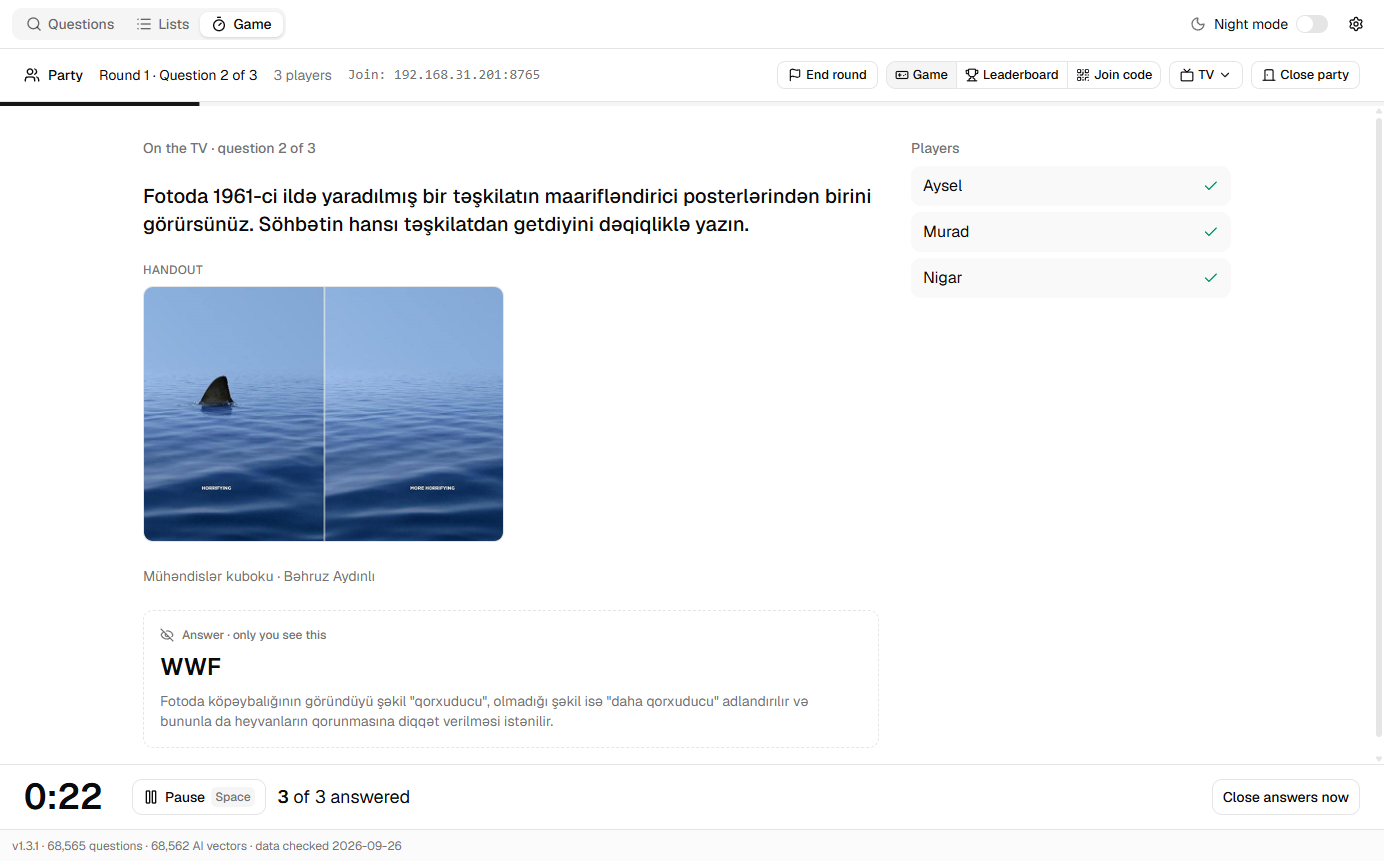
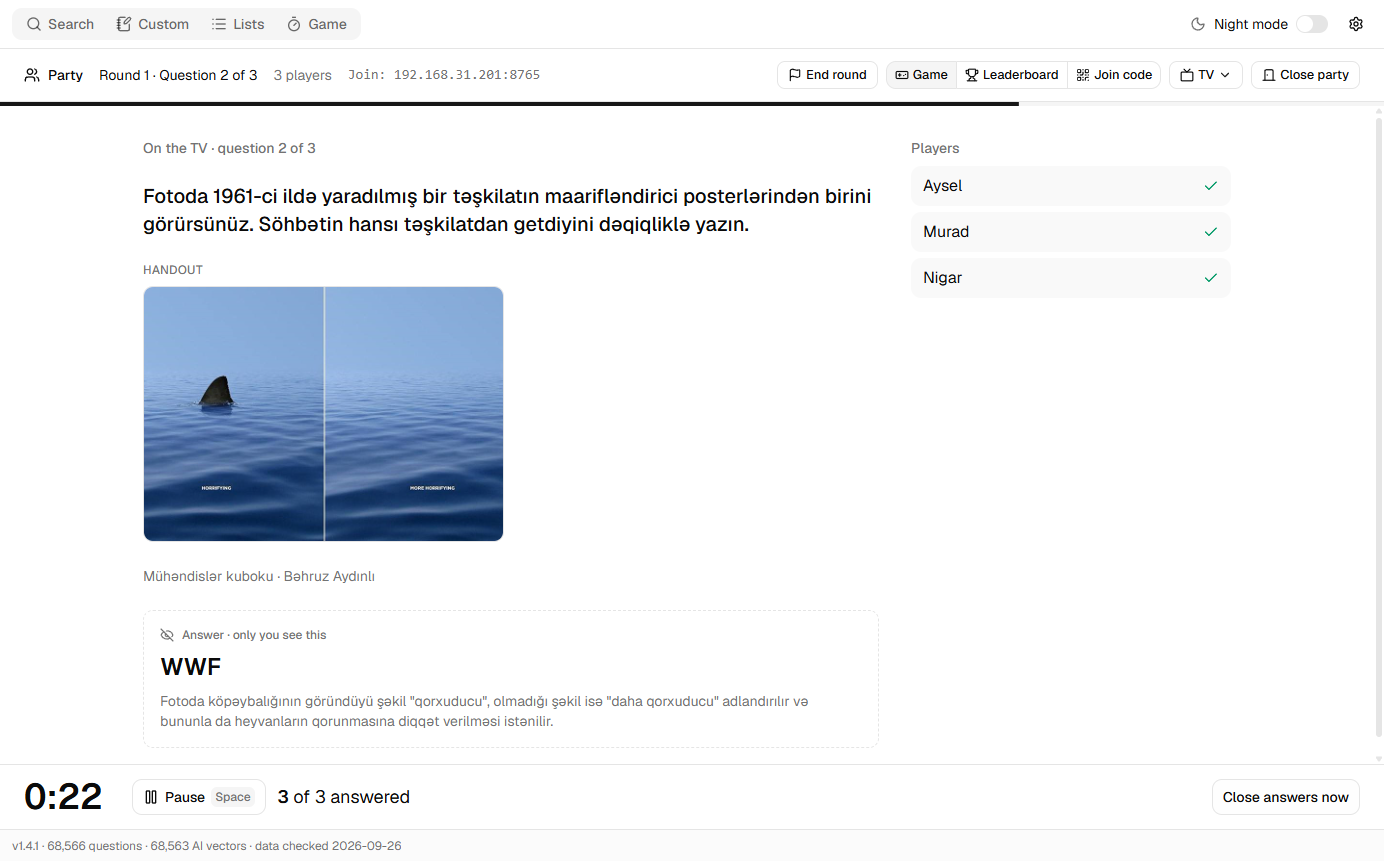
Daylight screenshots and a Custom tab screenshot; Custom tab ignores the search text

Changed region(s): [[0.0621, 0.9663, 0.2486, 0.9965], [0.1553, 0.0, 0.2486, 0.0302], [0.0311, 0.0, 0.1243, 0.0302]]

diff --git a/app/ui/App.jsx b/app/ui/App.jsx
@@ -557,9 +557,10 @@ export default function App() {
     );
   }
 
+  const isSearching = !isMine && !!query.trim();
   const summary = results && [
-    results.matches != null && (query.trim() ? `${fmt(results.matches)} keyword ${results.matches === 1 ? 'match' : 'matches'}` : plural(results.matches, 'question')),
-    query.trim() && searchMode !== 'keyword' && (results.ai ? 'AI ranked' : 'AI unavailable, keyword only'),
+    results.matches != null && (isSearching ? `${fmt(results.matches)} keyword ${results.matches === 1 ? 'match' : 'matches'}` : plural(results.matches, 'question')),
+    isSearching && searchMode !== 'keyword' && (results.ai ? 'AI ranked' : 'AI unavailable, keyword only'),
     `showing ${fmt(hits.length)}`, `${results.ms} ms`,
   ].filter(Boolean).join(' · ');
   const stage = progress && (stopping ? 'Stopping…'

diff --git a/README.md b/README.md
@@ -46,9 +46,10 @@ the TV never receive it early.
 
 | | |
 |---|---|
-| ![Questions](docs/screenshots/search.png) | ![TV lobby](docs/screenshots/tv-lobby.png) |
-| ![Game setup](docs/screenshots/game-setup.png) | ![Lists](docs/screenshots/lists.png) |
-| ![Settings](docs/screenshots/settings.png) | ![Night mode](docs/screenshots/search-dark.png) |
+| ![Search](docs/screenshots/search.png) | ![Custom questions](docs/screenshots/custom.png) |
+| ![Lists](docs/screenshots/lists.png) | ![Game setup](docs/screenshots/game-setup.png) |
+| ![TV lobby](docs/screenshots/tv-lobby.png) | ![Settings](docs/screenshots/settings.png) |
+| ![Night mode](docs/screenshots/search-dark.png) | |
 
 ## Install
 
